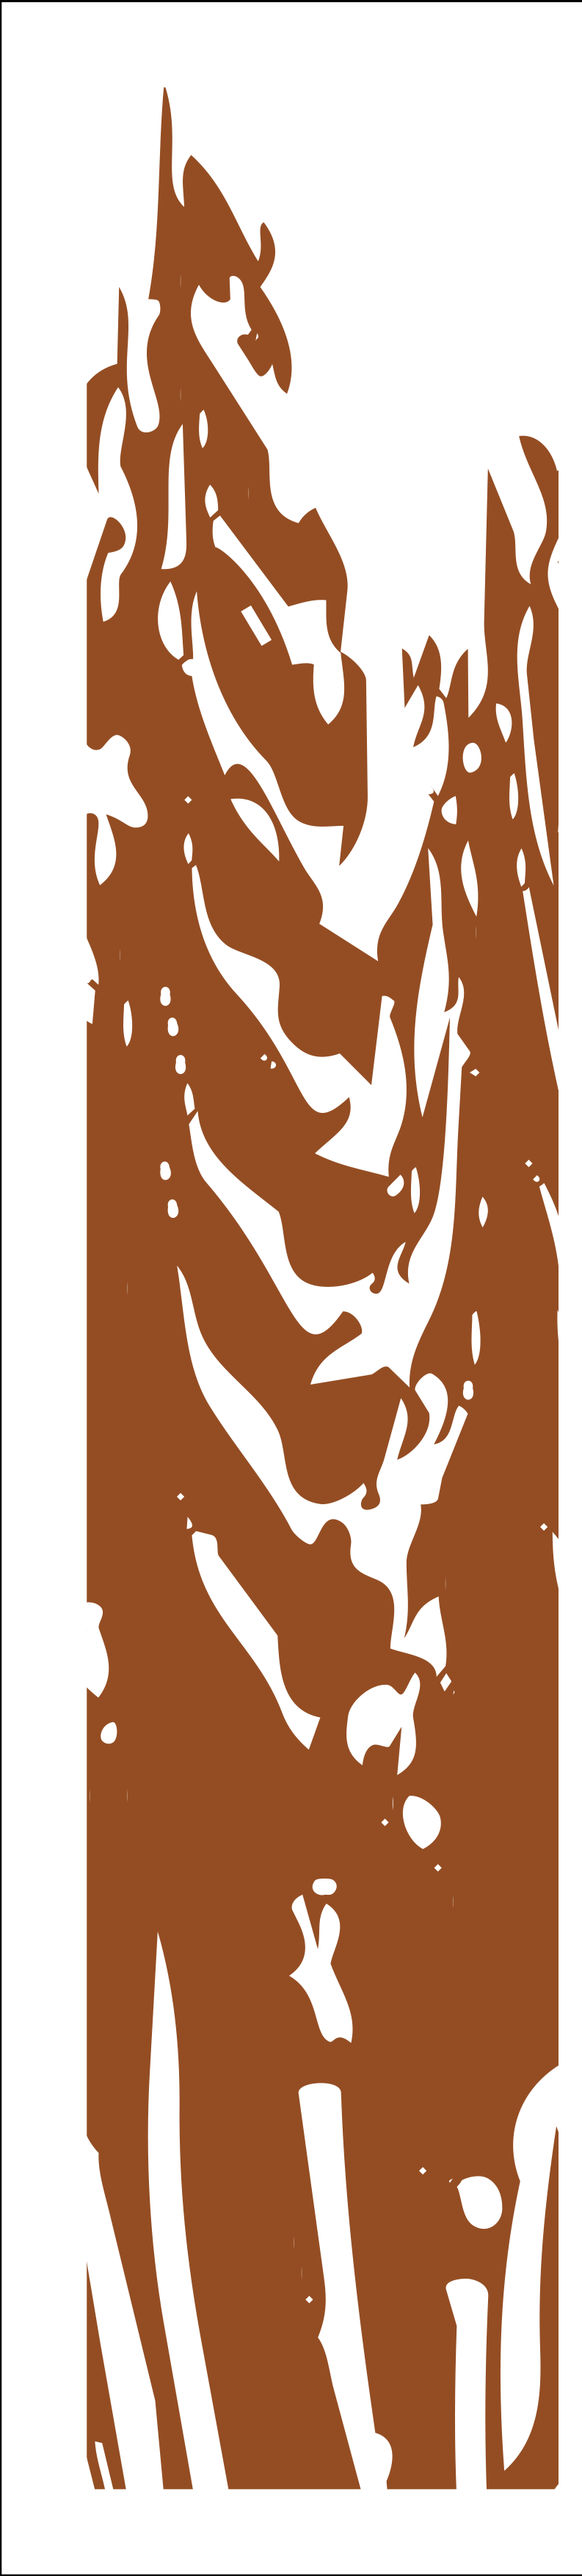
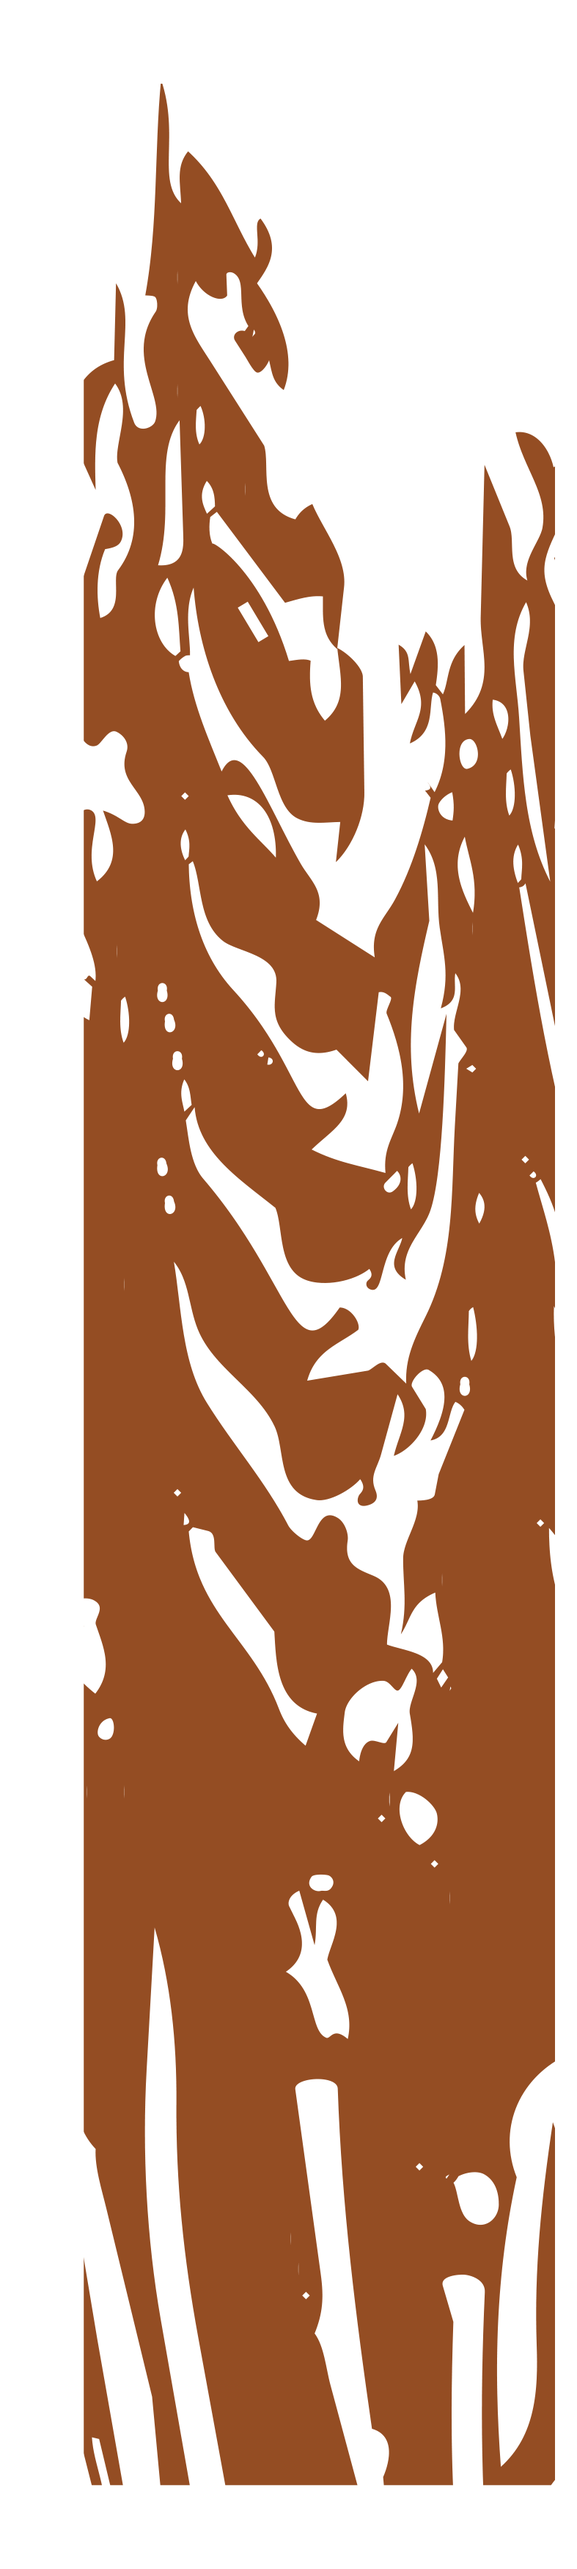
fix(home): strip opaque border from chapter strips, remove column padding
Re-crop each catalog strip to trim the 3-5px fully opaque frame along
the catalogue page edge (which rendered as a white box under the invert
filter). Drop the column's inner padding so the illustration runs
edge-to-edge inside the card.

diff --git a/resources/views/marketing/home.blade.php b/resources/views/marketing/home.blade.php
@@ -171,7 +171,7 @@
                             class="flex h-full min-h-[220px] w-full overflow-hidden text-brand-cream transition duration-200 hover:-translate-y-0.5 hover:shadow-[0_12px_32px_-20px_rgba(44,36,28,0.35)] {{ $chapterPanelBg[$chapter['slug']] }}"
                             data-testid="home-chapter-tile-{{ $chapter['slug'] }}"
                         >
-                            <div class="relative flex w-16 shrink-0 items-center justify-center overflow-hidden p-3 sm:w-20 sm:p-4">
+                            <div class="relative flex w-16 shrink-0 items-stretch overflow-hidden sm:w-20">
                                 <img
                                     src="{{ asset('images/chapters/' . $chapter['image']) }}"
                                     alt=""
